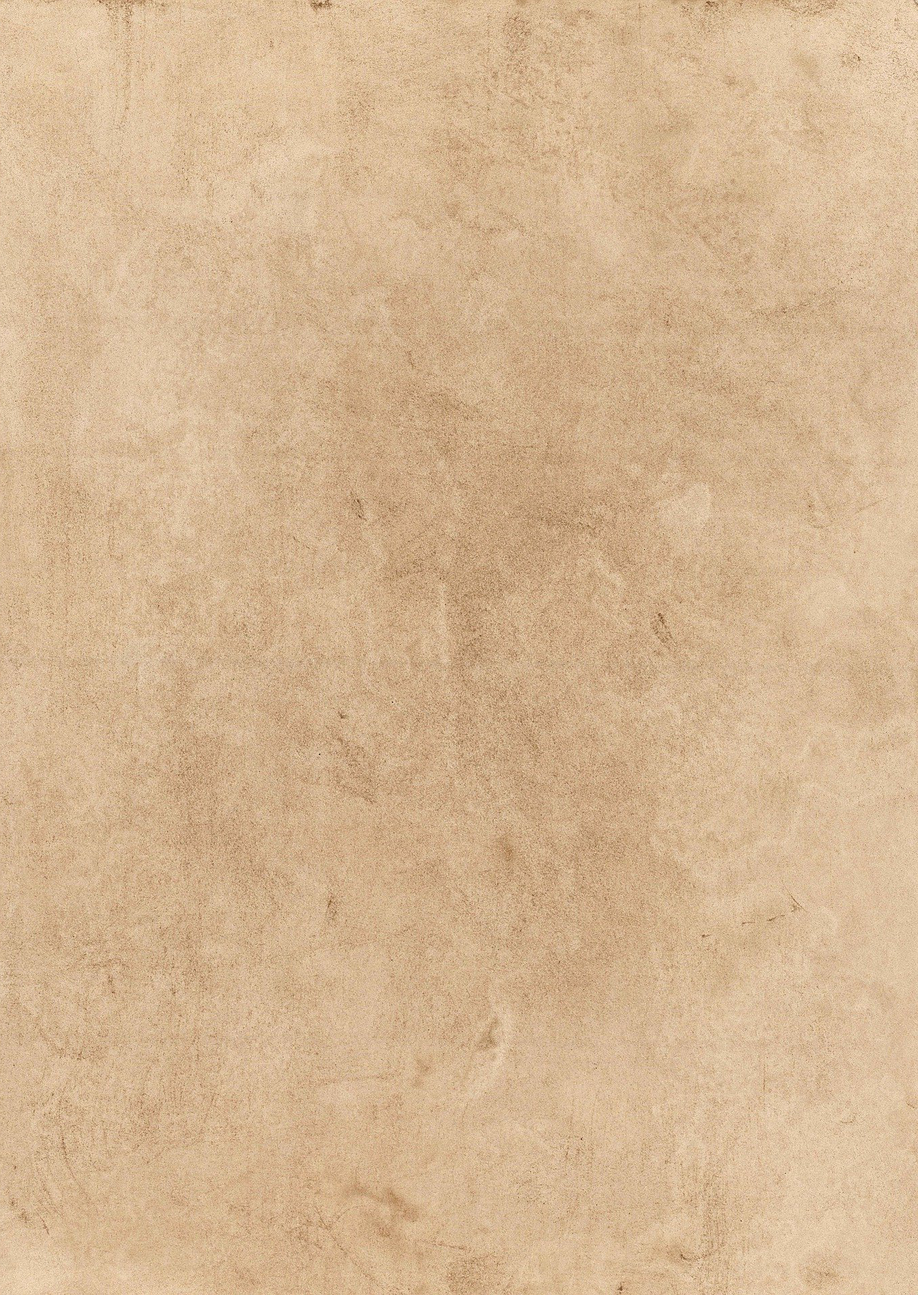
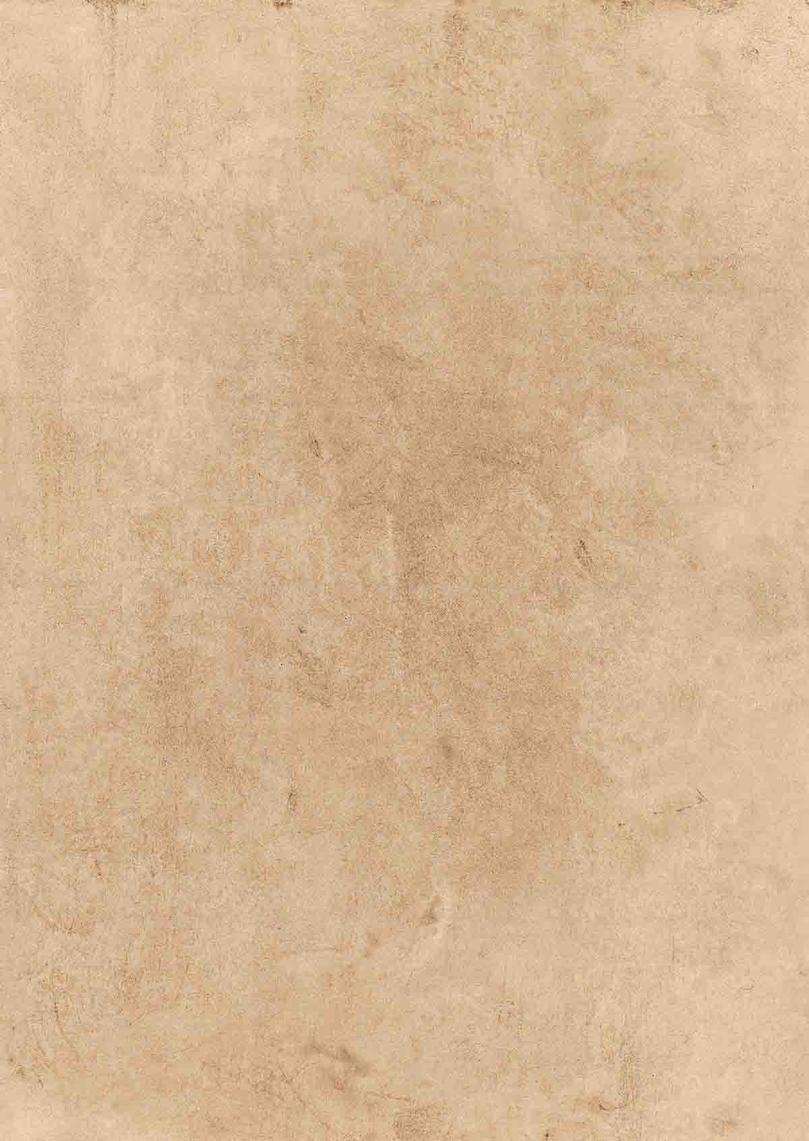
Reduced image sizes for laoding spinner and background image

diff --git a/public/index.html b/public/index.html
@@ -106,7 +106,7 @@
     <noscript>You need to enable JavaScript to see this website</noscript>
     
     <!-- <img id="loadingSpinner" src= "%PUBLIC_URL%/assets/images/tRoll2.png" alt="Toilet paper"> -->
-    <img id="loadingSpinner" src="assets/images/tRoll2.png" alt="Spinning toilet roll, while website loads">
+    <img id="loadingSpinner" src="assets/images/tRollSpinner.png" alt="Spinning toilet roll, while website loads">
         
     <!-- Virus image, moves around -->
     <img id="loadingVirus" src="assets/images/evilVirus.png"

diff --git a/src/pages/About/About.tsx b/src/pages/About/About.tsx
@@ -4,7 +4,7 @@ import styles from "./About.module.scss";
 import TpLink from "../../components/TpLink/TpLink";
 import cookie from "../../images/cookie2.gif";
 
-import LinkedIn from "../../images/LinkedIn-Blue-40@2x.png";
+import LinkedIn from "../../images/linkedInLogo.png";
 
 const About: React.FunctionComponent<{}> = () => {
   return (
